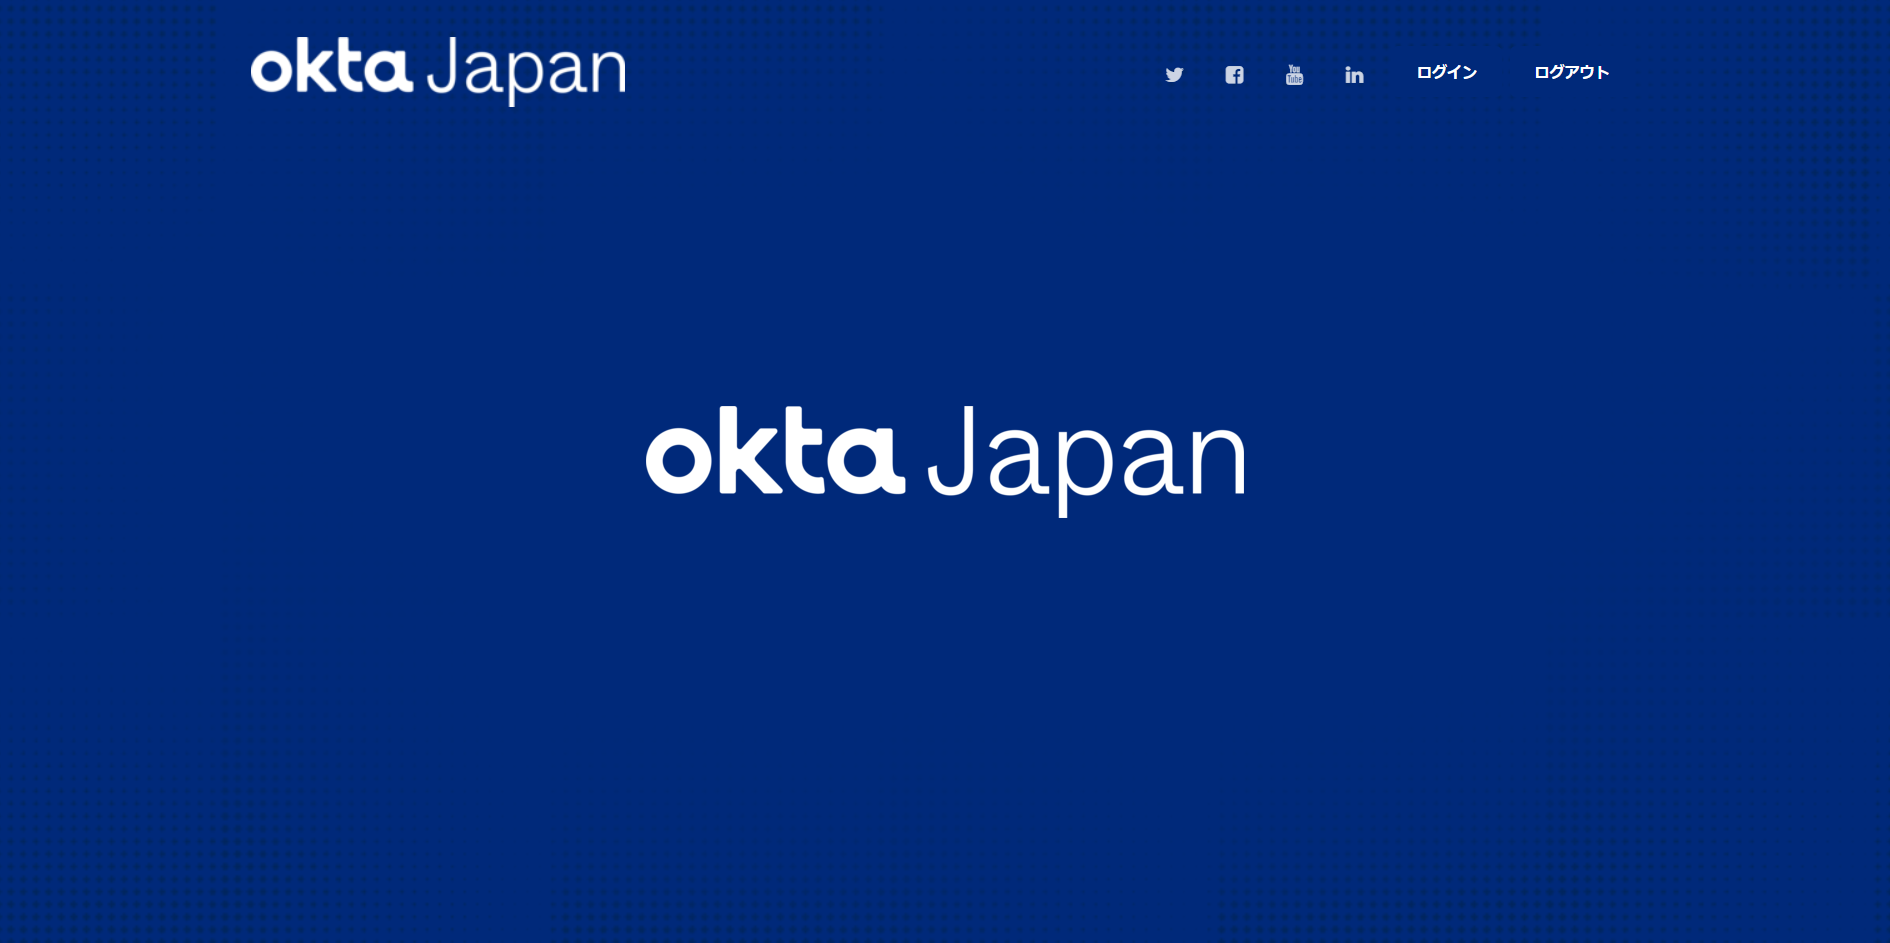
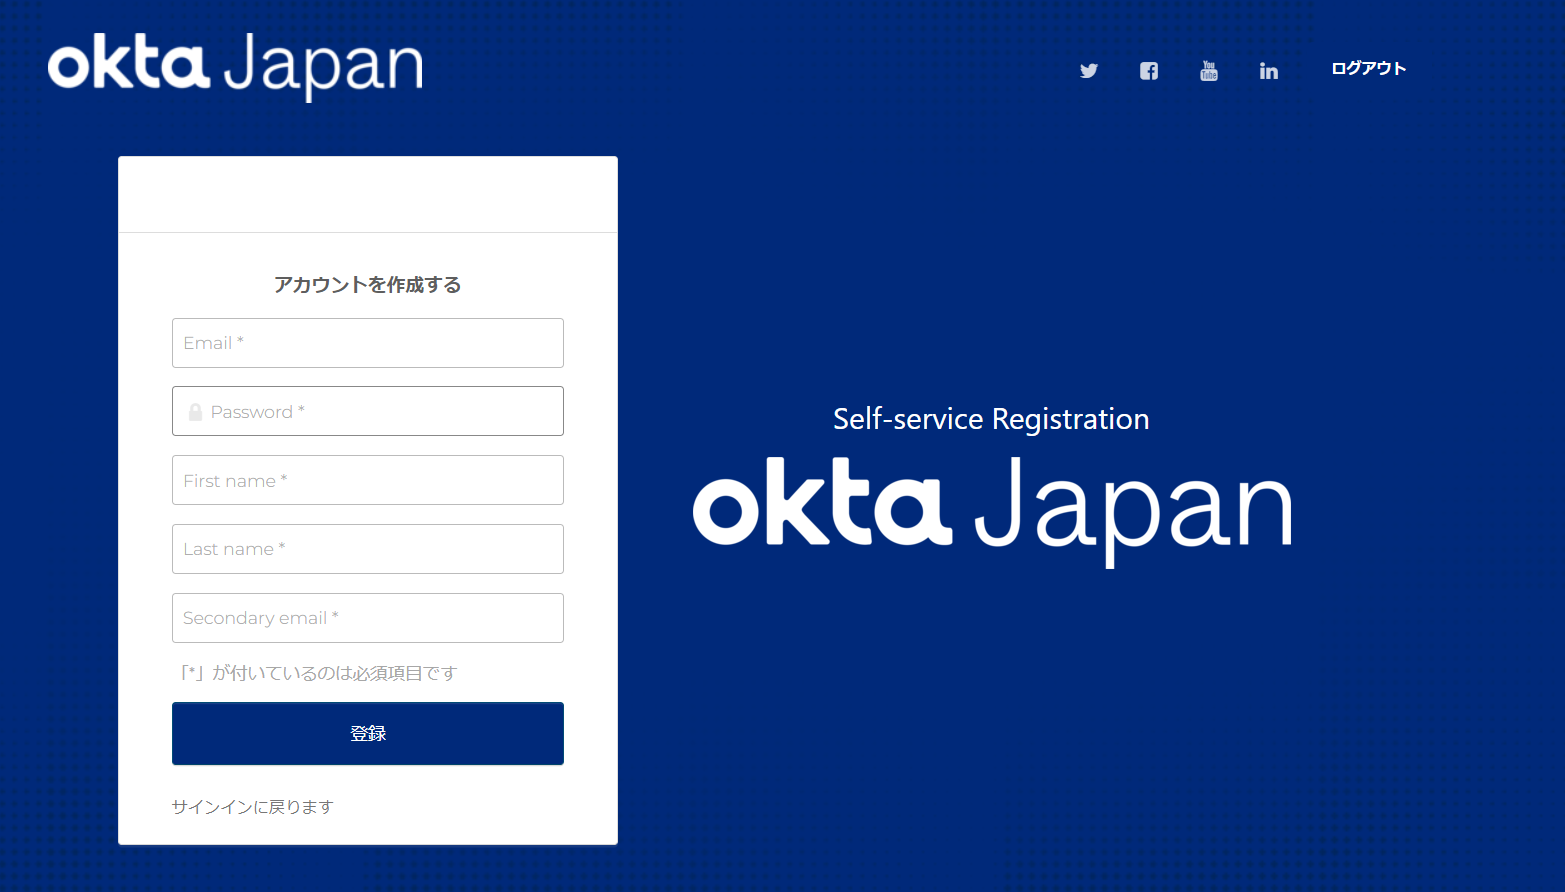
main
main

diff --git a/src/app/shared/okta/okta-widget.service.ts b/src/app/shared/okta/okta-widget.service.ts
@@ -6,6 +6,8 @@ import OktaSignIn from '@okta/okta-signin-widget';
 import '@okta/okta-signin-widget/dist/css/okta-sign-in.min.css';
 import { OktaConfigService } from "./okta-config.service";
 
+
+
 @Injectable({
   providedIn: 'root'
 })
@@ -19,7 +21,7 @@ export class OktaWidgetService {
   public oktaSignIn;
   public idToken;
   public LogoutURI = this.OktaConfig.strPostLogoutURL;
-  public strMFAStatus;
+
 
   constructor(private router: Router, private OktaConfig: OktaConfigService) { }
 
@@ -32,7 +34,7 @@ export class OktaWidgetService {
   async login() {
     const OktaClientID = this.OktaConfig.strClientID;
     const OktaBaseURI = this.OktaConfig.strBaseURI;
-    const OktaLang = this.OktaConfig.strLang;  
+    const OktaLang = this.OktaConfig.strLang;
     const OktaRedirect = this.OktaConfig.strRedirectURL;
     const OktaBrand = this.OktaConfig.strBrand;
     const OktaPostlogoutURI = this.OktaConfig.strPostLogoutURL;
@@ -51,6 +53,13 @@ export class OktaWidgetService {
         brand: OktaBrand,
       },
       postLogoutRedirectUri: OktaPostlogoutURI,
+      features: {
+        registration: true,
+        rememberMe: false,
+        selfServiceUnlock: false,
+        smsRecovery: false,
+        callRecovery: false,
+      },
       authParams: {
         issuer: OktaIssuer,
         responseMode: 'fragment',
@@ -59,62 +68,65 @@ export class OktaWidgetService {
         pkce: false,
         prompt: OktaResMode
       },
-      
-    });
-    console.log(OktaScope)
-    var myMFADone = await oktaSignIn.showSignInToGetTokens({
-      el: '#okta-signin-container'
-    }).then(function (tokens) {
 
+    });
+    console.log(OktaScope);
+    oktaSignIn.on('afterRender', function (context) {
+      let element: HTMLElement = document.getElementsByClassName('registration-link')[0] as HTMLElement;
+      element.click();    
+    })
+    await oktaSignIn.showSignInToGetTokens({
+      el: '#okta-signin-container'
+    })
+   
+    .then(function (tokens) {     
       oktaSignIn.authClient.tokenManager.setTokens(tokens);
       oktaSignIn.remove();
       const idToken = tokens.idToken;
       console.log("Hello, " + idToken.claims.email + "! You just logged in! :)");
       window.location.replace(OktaRedirect);
-      return true;
-
+      return true;     
     }).catch(function (err) {
       console.error(err);
       return false;
     });
-    //console.log('MFA Status : ' + myMFADone)
-    this.strMFAStatus = myMFADone;
+
   }
 
-  
- 
-CloseWidget() {
-  const OktaClientID = this.OktaConfig.strClientID;
-  const OktaBaseURI = this.OktaConfig.strBaseURI;
-  const OktaLang = this.OktaConfig.strLang;
-  const OktaRedirect = this.OktaConfig.strRedirectURL;
-  const OktaBrand = this.OktaConfig.strBrand;
-  const OktaPostlogoutURI = this.OktaConfig.strPostLogoutURL;
-  const OktaIssuer = this.OktaConfig.strIssuer;
-  const OktaScope = this.OktaConfig.strScope;
-  const OktaResType = this.OktaConfig.strResponseType;
-  const OktaResMode = this.OktaConfig.strResponseMode;
-  var oktaSignIn = new OktaSignIn({
-    clientId: OktaClientID,
-    baseUrl: OktaBaseURI,
-    language: OktaLang,
-    redirectUri: OktaRedirect,
-    colors: {
-      brand: OktaBrand,
-    },
-    postLogoutRedirectUri: OktaPostlogoutURI,
-    authParams: {
-      issuer: OktaIssuer,
-      responseMode: 'fragment',
-      responseType: OktaResType,
-      scopes: OktaScope,
-      pkce: false,
-      prompt: OktaResMode
-    },
-  });
-  oktaSignIn.remove();
 
-}
+
+  CloseWidget() {
+    const OktaClientID = this.OktaConfig.strClientID;
+    const OktaBaseURI = this.OktaConfig.strBaseURI;
+    const OktaLang = this.OktaConfig.strLang;
+    const OktaRedirect = this.OktaConfig.strRedirectURL;
+    const OktaBrand = this.OktaConfig.strBrand;
+    const OktaPostlogoutURI = this.OktaConfig.strPostLogoutURL;
+    const OktaIssuer = this.OktaConfig.strIssuer;
+    const OktaScope = this.OktaConfig.strScope;
+    const OktaResType = this.OktaConfig.strResponseType;
+    const OktaResMode = this.OktaConfig.strResponseMode;
+    var oktaSignIn = new OktaSignIn({
+      clientId: OktaClientID,
+      baseUrl: OktaBaseURI,
+      language: OktaLang,
+      redirectUri: OktaRedirect,
+      colors: {
+        brand: OktaBrand,
+      },
+      postLogoutRedirectUri: OktaPostlogoutURI,
+      authParams: {
+        issuer: OktaIssuer,
+        responseMode: 'fragment',
+        responseType: OktaResType,
+        scopes: OktaScope,
+        pkce: false,
+        prompt: OktaResMode
+      },
+    });
+    oktaSignIn.remove();
+
+  }
 
 }
 

diff --git a/src/app/landing/landing.component.html b/src/app/landing/landing.component.html
@@ -1,35 +1,8 @@
-<!-- <div class="wrapper">
-  <div class="page-header section-dark" style="background-image: url('assets/img/okta_blue_bg.png')">
-    <h1><img src="assets/img/okta_japan_white_medium.png" alt="" class="responsive"></h1>
-  </div>
-  <div class="main">
-    
-    
-
-    <div class="section section-dark">
-        <div class="container">
-            <div class="row">
-                <div class="col-md-8 ml-auto mr-auto text-center">
-                    <h2 class="title">Okta は、フェデレーションで会社と顧客のIDを保護します</h2>
-                    <p class="description">
-                        Oktaは、すべてのアイデンティティを保護する単一の信頼できるプラットフォームです。10,650社を超える組織がOktaのソフトウェアとAPIを信頼し、ユーザーのサインイン、認証、管理に活用しています。
-                    </p>
-                </div>
-            </div>
-        </div>
-    </div>
-   
-</div>
-</div>
-<app-footer></app-footer>
-
- -->
-
  <div class="wrapper">
     <div class="page-header section-dark" style="background-image: url('assets/img/okta_blue_bg.png')">
 
         <div class="mainContainer" fxLayout="columns wrap" fxLayoutAlign="center center">
-            <div id="okta-signin-container" class="widgetItem"></div>
+            <div #myDiv id="okta-signin-container" class="widgetItem"></div>
             <div class="imgItem">
                 <h1 class="appTitle">Self-service Registration</h1>
                 <h1><img src="assets/img/okta_japan_white_medium.png" alt="" class="responsive"></h1>

diff --git a/src/index.html b/src/index.html
@@ -33,10 +33,10 @@
     <link href="https://fonts.googleapis.com/css2?family=Roboto:wght@300;400;500&display=swap" rel="stylesheet">
     <link href="https://fonts.googleapis.com/icon?family=Material+Icons" rel="stylesheet">
     <!-- Latest CDN production Javascript and CSS -->
-    <script src="https://global.oktacdn.com/okta-signin-widget/5.14.0/js/okta-sign-in.min.js"
-        type="text/javascript"></script>
-    <link href="https://global.oktacdn.com/okta-signin-widget/5.14.0/css/okta-sign-in.min.css" type="text/css"
-        rel="stylesheet" />
+    <!-- Latest CDN production Javascript and CSS -->
+<script src="https://global.oktacdn.com/okta-signin-widget/6.1.2/js/okta-sign-in.min.js" type="text/javascript"></script>
+
+<link href="https://global.oktacdn.com/okta-signin-widget/6.1.2/css/okta-sign-in.min.css" type="text/css" rel="stylesheet"/>
 
 
 

diff --git a/src/app/landing/landing.component.ts b/src/app/landing/landing.component.ts
@@ -1,4 +1,4 @@
-import { Component, OnInit } from '@angular/core';
+import { Component, OnInit, ViewChild, ElementRef  } from '@angular/core';
 import {OktaWidgetService} from 'app/shared/okta/okta-widget.service';
 
 @Component({
@@ -7,13 +7,19 @@ import {OktaWidgetService} from 'app/shared/okta/okta-widget.service';
   styleUrls: ['./landing.component.css']
 })
 export class LandingComponent implements OnInit {
+ 
 
+ 
   constructor(
     public OktaWidgetService:OktaWidgetService,
   ) { }
 
   async ngOnInit(){
-    this.OktaWidgetService.login();
+    await this.OktaWidgetService.CloseWidget();
+
+    await this.OktaWidgetService.login();
+
+
   }
 
 }

diff --git a/src/app/landing/landing.component.css b/src/app/landing/landing.component.css
@@ -24,7 +24,7 @@
   }
   
   .mainContainer {
-    margin-top: 20px !important;
+    margin-top: 50px !important;
     text-align: center !important;
   }
   
@@ -46,3 +46,7 @@
   .pleaseClose{
     line-height: 0.8!important;
   }
+
+ 
+ 
+  

diff --git a/README.md b/README.md
@@ -1,9 +1,5 @@
-# angular-okta-japan-template-v3
+# angular-create-account-page/
 
-# THIS IS NOT AN OFFICIAL TEMPLATE.  
-This is was created for personal projects.
-
-# AngularOktaTemplate
 
 This project was generated with [Angular CLI](https://github.com/angular/angular-cli) version 13.0.3.
 
